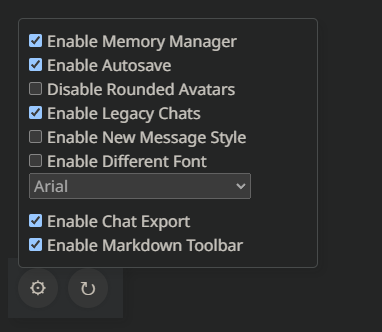
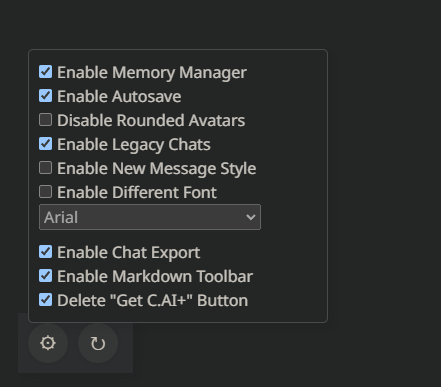
Add new features to markdown toolbar and remove "Get C.AI+" button

diff --git a/README.md b/README.md
@@ -151,7 +151,7 @@ Character.ai supports markdown, but some users may not be proficient in it or kn
 
 ![Markdown Toolbar](resources/markdown/mtb.png)
 
-The toolbar currently has buttons for making the text **Bold**, *Italic*, `Code`, and wrapped in a blockquote. Soon I'm planning to add more buttons, but I want to note that not all markdown features are supported by Character.ai.
+The toolbar currently has buttons for making the text **Bold**, *Italic*, `Code`, [Link](https://character.ai/), and wrapped in a blockquote. Soon I'm planning to add more buttons, but I want to note that not all markdown features are supported by Character.ai.
 
 You can use each of the buttons in 3 ways:
 
@@ -160,6 +160,14 @@ You can use each of the buttons in 3 ways:
 3. If you click the button while the cursor is inside a markdown tag, it will remove the markdown tag. For example, if you click the "Bold" button while the cursor is inside `** **`, it will remove the `** **` tags.
 
 Unfortunately, this setting has a side effect. With it, you can't resize the messagebox by dragging its corner. This is because of the way Character.ai handles box resizing and "smoothing". I'm planning to fix this in the future.
+
+## Delete the "Get C.AI+" Button
+
+Free users may find the "Get C.AI+" button annoying, as it's always there, and the only thing you can do to get rid of it is to buy C.AI+. This addon removes the button, and it can be enabled by enabling the "Remove Get C.AI+ Button" option in the extension settings. After reloading the page, you'll notice that the button is gone. Doesn't work if you already have C.AI+.
+
+![Get C.AI+ Button](resources/markdown/deletecaiplus.png)
+
+![Get C.AI+ Button Gone](resources/markdown/caiplusgone.png)
 
 
 # Contributing
